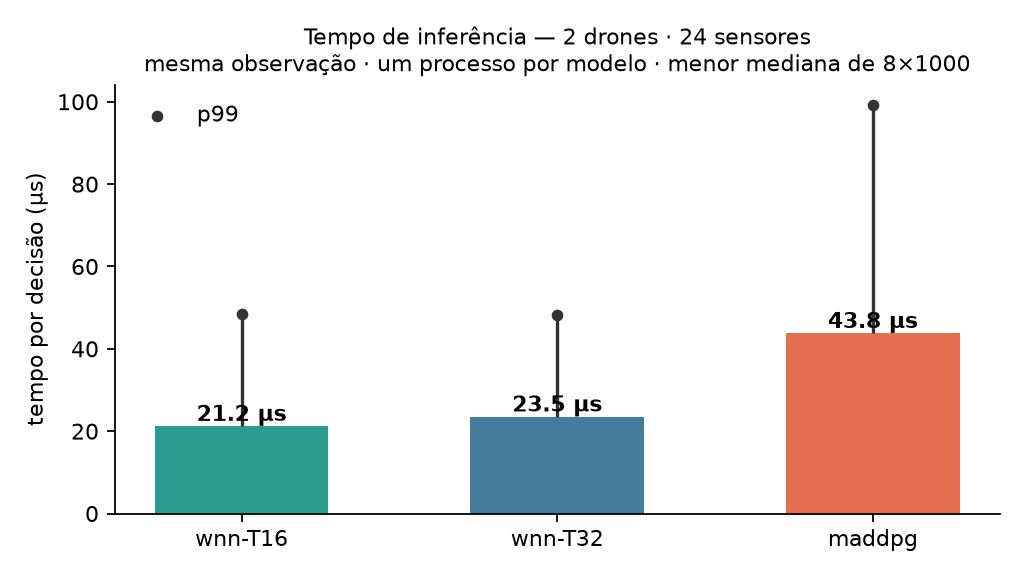
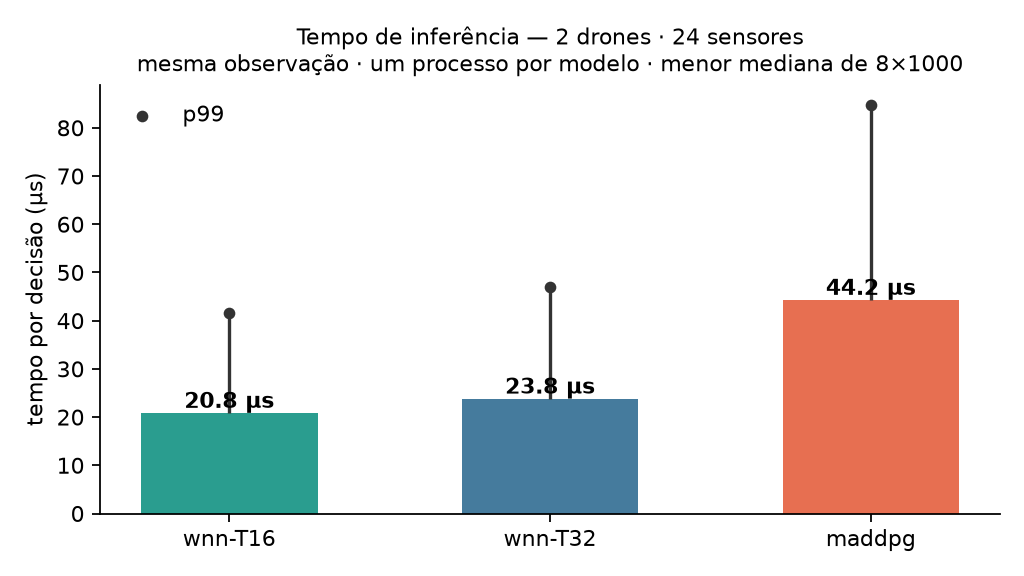
fix(docs): a alegação de latência do bitmap era falsa — corrigida com a medição
O commit anterior dizia "latência não piora: 15,7 µs"; escrevi a mensagem
antes de medir, e a medição (duas rodadas, máquina quieta) diz outra coisa:

    chaves int32     15,8 µs   rede 361 KB
    bitmap + rank    20,8 µs   rede 300 KB    (+5 µs, −61 KB)

O rank em NumPy custa ~13 despachos de ufunc pequenos contra a chamada única
do searchsorted, e neste tamanho o despacho domina. Em C a conta inverte
(POPCNT é uma instrução) — o bitmap é o formato certo do artefato embarcado, e
por isso fica; o docstring agora diz o preço em vez de negá-lo. Contra o
MADDPG a WNN segue 2,1× mais rápida.

O bit a bit não está em questão: 7 deploys, 60/60 episódios da campanha e a
suíte (399) confirmam identidade de comportamento.

diff --git a/reports/spec03-latencia-memoria-a2s24.md b/reports/spec03-latencia-memoria-a2s24.md
@@ -6,9 +6,9 @@ Gerado por `scripts/spec03_latencia_memoria.py` em 2026-08-27 · x86_64 · mesma
 
 | modelo | mediana | p99 |
 | --- | --- | --- |
-| wnn-T16 | 21.2 µs | 48.4 µs |
-| wnn-T32 | 23.5 µs | 48.1 µs |
-| maddpg | 43.8 µs | 99.2 µs |
+| wnn-T16 | 20.8 µs | 41.6 µs |
+| wnn-T32 | 23.8 µs | 46.9 µs |
+| maddpg | 44.2 µs | 84.7 µs |
 
 - wnn-T16 é **2.1×** mais rápida que o MADDPG
 
@@ -33,7 +33,7 @@ Gerado por `scripts/spec03_latencia_memoria.py` em 2026-08-27 · x86_64 · mesma
 | --- | --- |
 | wnn-T16 | 17 MB |
 | wnn-T32 | 17 MB |
-| maddpg | 482 MB |
+| maddpg | 479 MB |
 
 ![tempos](spec03-latencia-a2s24.png)
 ![memória](spec03-memoria-a2s24.png)
